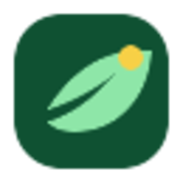
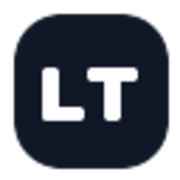
feat: 将站点品牌更名为 LT导航
需求描述：避免“莲塘导航”被误解为与莲塘口岸存在冲突、官方关系或商业关系，将站点可见品牌更名为 LT导航。

实现思路：统一页面标题、品牌文案、设置数据、README、favicon、PWA 图标和公众号占位二维码，保留 liantang.fun 域名和 Cloudflare 项目配置不变。

验证结果：npm run check 与 npm run build 均通过；线上预览页面显示 LT导航，源码和静态 SVG 中不再出现莲塘/LinkTang 文案。

diff --git a/src/routes/+page.svelte b/src/routes/+page.svelte
@@ -265,21 +265,21 @@
 </script>
 
 <svelte:head>
-	<title>莲塘导航 — liantang.fun</title>
+	<title>LT导航 — liantang.fun</title>
 	<meta
 		name="description"
-		content="莲塘导航收集返现、开户、支付、eSIM、理赔和实用工具链接，方便快速筛选常用推荐入口。"
+		content="LT导航收集返现、开户、支付、eSIM、理赔和实用工具链接，方便快速筛选常用推荐入口。"
 	/>
 </svelte:head>
 
 <main class="shell">
 	<header class="topbar">
-		<a class="brand" href="/" aria-label="莲塘导航">
+		<a class="brand" href="/" aria-label="LT导航">
 			<span class="brand-mark" aria-hidden="true">
-				<span>莲</span>
+				<span>LT</span>
 			</span>
 			<span>
-				<strong>莲塘导航</strong>
+				<strong>LT导航</strong>
 				<small>liantang.fun</small>
 			</span>
 		</a>
@@ -312,7 +312,7 @@
 
 	<section class="hero">
 		<div class="hero-copy">
-			<p class="eyebrow">Liantang referral desk</p>
+			<p class="eyebrow">LT referral desk</p>
 			<h1>返现、开户、工具和好物推荐</h1>
 			<p class="lead">
 				把常用入口集中在一个干净的页面里，按分类筛选，快速找到返现网站、证券平台、支付工具、eSIM 和航空理赔等链接。
@@ -391,7 +391,7 @@
 					+ 新增分类
 				</button>
 			{/if}
-			<div class="wechat-card" aria-label="关注公众号莲塘导航">
+			<div class="wechat-card" aria-label="关注公众号 LT导航">
 				<div class="wechat-qr" aria-hidden="true">
 					{#if wechatQr}
 						<img src={wechatQr} alt="" loading="lazy" />
@@ -404,7 +404,7 @@
 				</div>
 				<div>
 					<p>微信公众号</p>
-					<h3>莲塘导航</h3>
+					<h3>LT导航</h3>
 					<span>占位二维码已生成，后续替换同名图片即可接入真实公众号。</span>
 				</div>
 			</div>
@@ -497,7 +497,7 @@
 					<h2>{data.user ? '管理你的账号' : userMode === 'login' ? '登录你的账号' : '创建你的账号'}</h2>
 					<p>
 						{data.user
-							? '更新联系方式、开通 VIP，并同步到莲塘会员中心。'
+							? '更新联系方式、开通 VIP，并同步到 LT 会员中心。'
 							: userMode === 'login'
 								? '输入邮箱和密码即可登录。'
 								: '填写邮箱和密码，开始同步你的会员权益。'}
@@ -507,7 +507,7 @@
 					<button class="auth-card-close" type="button" aria-label="关闭账号窗口" onclick={() => (showUserPanel = false)}>×</button>
 				{#if data.user}
 					<h2>推荐站账号</h2>
-					<p>一站登录，解锁并同步莲塘导航会员权益内容。</p>
+					<p>一站登录，解锁并同步 LT导航会员权益内容。</p>
 					<div class="account-panel">
 						<span>{data.user.vip_status === 'active' ? 'VIP 用户' : '普通用户'}</span>
 						<strong>{data.user.display_name || data.user.email}</strong>
@@ -520,7 +520,7 @@
 						</label>
 						<label>
 							显示名称
-							<input name="display_name" value={data.user.display_name} placeholder="莲塘朋友" />
+							<input name="display_name" value={data.user.display_name} placeholder="LT 朋友" />
 						</label>
 						<label>
 							微信
@@ -544,7 +544,7 @@
 					</div>
 				{:else}
 					<h2>{userMode === 'login' ? '登录推荐站账号' : '注册推荐站账号'}</h2>
-					<p>一站登录，解锁并同步莲塘导航会员权益内容。</p>
+					<p>一站登录，解锁并同步 LT导航会员权益内容。</p>
 					<div class="auth-switch auth-card-tabs" role="tablist" aria-label="账号模式">
 						<button type="button" class:active={userMode === 'register'} onclick={() => (userMode = 'register')}>
 							<strong>注册</strong>
@@ -575,7 +575,7 @@
 							</label>
 							<label>
 								显示名称
-								<input name="display_name" placeholder="莲塘朋友" autocomplete="name" />
+								<input name="display_name" placeholder="LT 朋友" autocomplete="name" />
 							</label>
 							<label>
 								密码
@@ -618,7 +618,7 @@
 		<div class="modal-backdrop" role="button" tabindex="0" aria-label="关闭提醒备注" onclick={(event) => { if (event.currentTarget === event.target) reminderSite = null; }} onkeydown={(event) => closeOnBackdropKey(event, () => (reminderSite = null))}>
 			<section class="modal reminder-modal" role="dialog" aria-modal="true" tabindex="-1">
 				<button class="modal-close" type="button" onclick={() => (reminderSite = null)}>×</button>
-				<p class="modal-eyebrow"><span aria-hidden="true">💡</span> 莲塘提醒你哦</p>
+				<p class="modal-eyebrow"><span aria-hidden="true">💡</span> LT 提醒你哦</p>
 				<h2>{reminderSite.name}</h2>
 				<div class="reminder-note">
 					<span class="reminder-icon" aria-hidden="true">✨</span>

diff --git a/src/lib/ref-data.ts b/src/lib/ref-data.ts
@@ -113,7 +113,7 @@ const categoryById = new Map<number, CategoryName>([
 
 const featuredIds = new Set([2, 1, 46, 49, 34, 15]);
 
-export const settings = settingsData[0] ?? { title: '莲塘导航' };
+export const settings = settingsData[0] ?? { title: 'LT导航' };
 
 export function buildTags(site: Pick<RawSite, 'name' | 'desc' | 'url' | 'catelog'>) {
 	const text = `${site.name} ${site.desc} ${site.url} ${site.catelog}`.toLowerCase();

diff --git a/README.md b/README.md
@@ -1,4 +1,4 @@
-# 莲塘导航 / liantang.fun
+# LT导航 / liantang.fun
 
 一个部署在 Cloudflare Pages + Cloudflare D1 上的个人推荐导航站，用来集中整理返现购物、银行开户、信用卡申请、券商交易、支付汇款、eSIM、旅行理赔和数字服务等常用入口。
 
